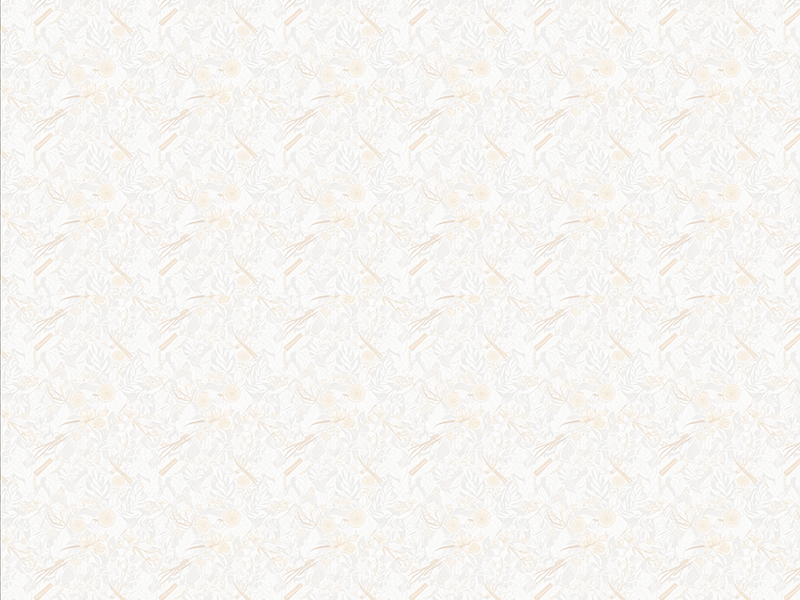
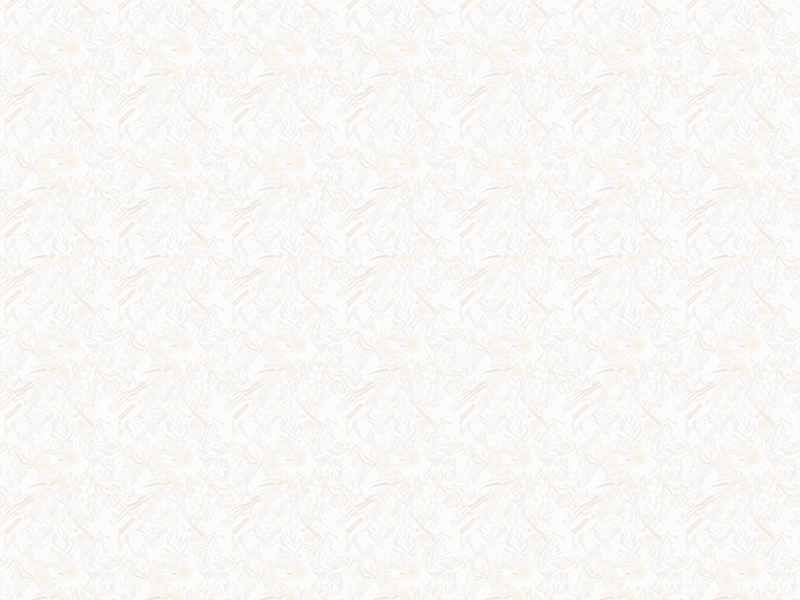
chore(styles): actualiza estilos globales, isologo y patrones de fondo

diff --git a/src/styles/backgroundPattern.css b/src/styles/backgroundPattern.css
@@ -1,12 +1,11 @@
 /* PATRÓN CON TU IMAGEN PERSONALIZADA - SIN BLEND */
 body {
   background-image: url('/images/patterns/pattern-bg.png');
-  background-size: 300px 200px;
   background-repeat: repeat;
   background-attachment: fixed;
-  background-color: #F9F9F9;
-  /* background-blend-mode: soft-light; ← QUITAR ESTA LÍNEA */
-}
+  background-color: #f9f9f9c7;
+/*   background-blend-mode: soft-light;
+ */}
 
 /* COMENTAR EL GRADIENTE ANTERIOR */
 /*
@@ -19,15 +18,25 @@ body {
 
 /* NAVBAR CON TRANSPARENCIA ELEGANTE */
 .navbar {
-  background: rgba(255, 255, 255, 0.95);
+  background-color: #f9f9f9c7;
   backdrop-filter: blur(10px);
   -webkit-backdrop-filter: blur(10px);
   border-bottom: 1px solid rgba(212, 175, 55, 0.1);
-}
+/*   background-image: url('/images/patterns/pattern-bg.png');
+ */}
 
 /* SECCIONES CON DIFERENTES NIVELES DE TRANSPARENCIA */
 .section-transparent {
   background: rgba(255, 255, 255, 0.75); /* Más transparente para ver patrón */
+}
+
+.section-card {
+  background-image: url('/images/patterns/pattern-bg.png');
+  color: #222; /* Color de texto oscuro para contraste */
+  backdrop-filter: blur(5px);
+  border-radius: 12px;
+  box-shadow: 0 4px 6px rgba(0, 0, 0, 0.1);
+  background-color: #f9f9f9c7;
 }
 
 .section-white {

diff --git a/src/index.css b/src/index.css
@@ -17,7 +17,6 @@ h1, h2, h3, h4, h5, h6, .font-serif {
   font-family: 'Cinzel', serif;
 }
 
-/* Clases personalizadas para el logo */
 .font-logo {
   font-family: 'Cinzel', serif;
 }
